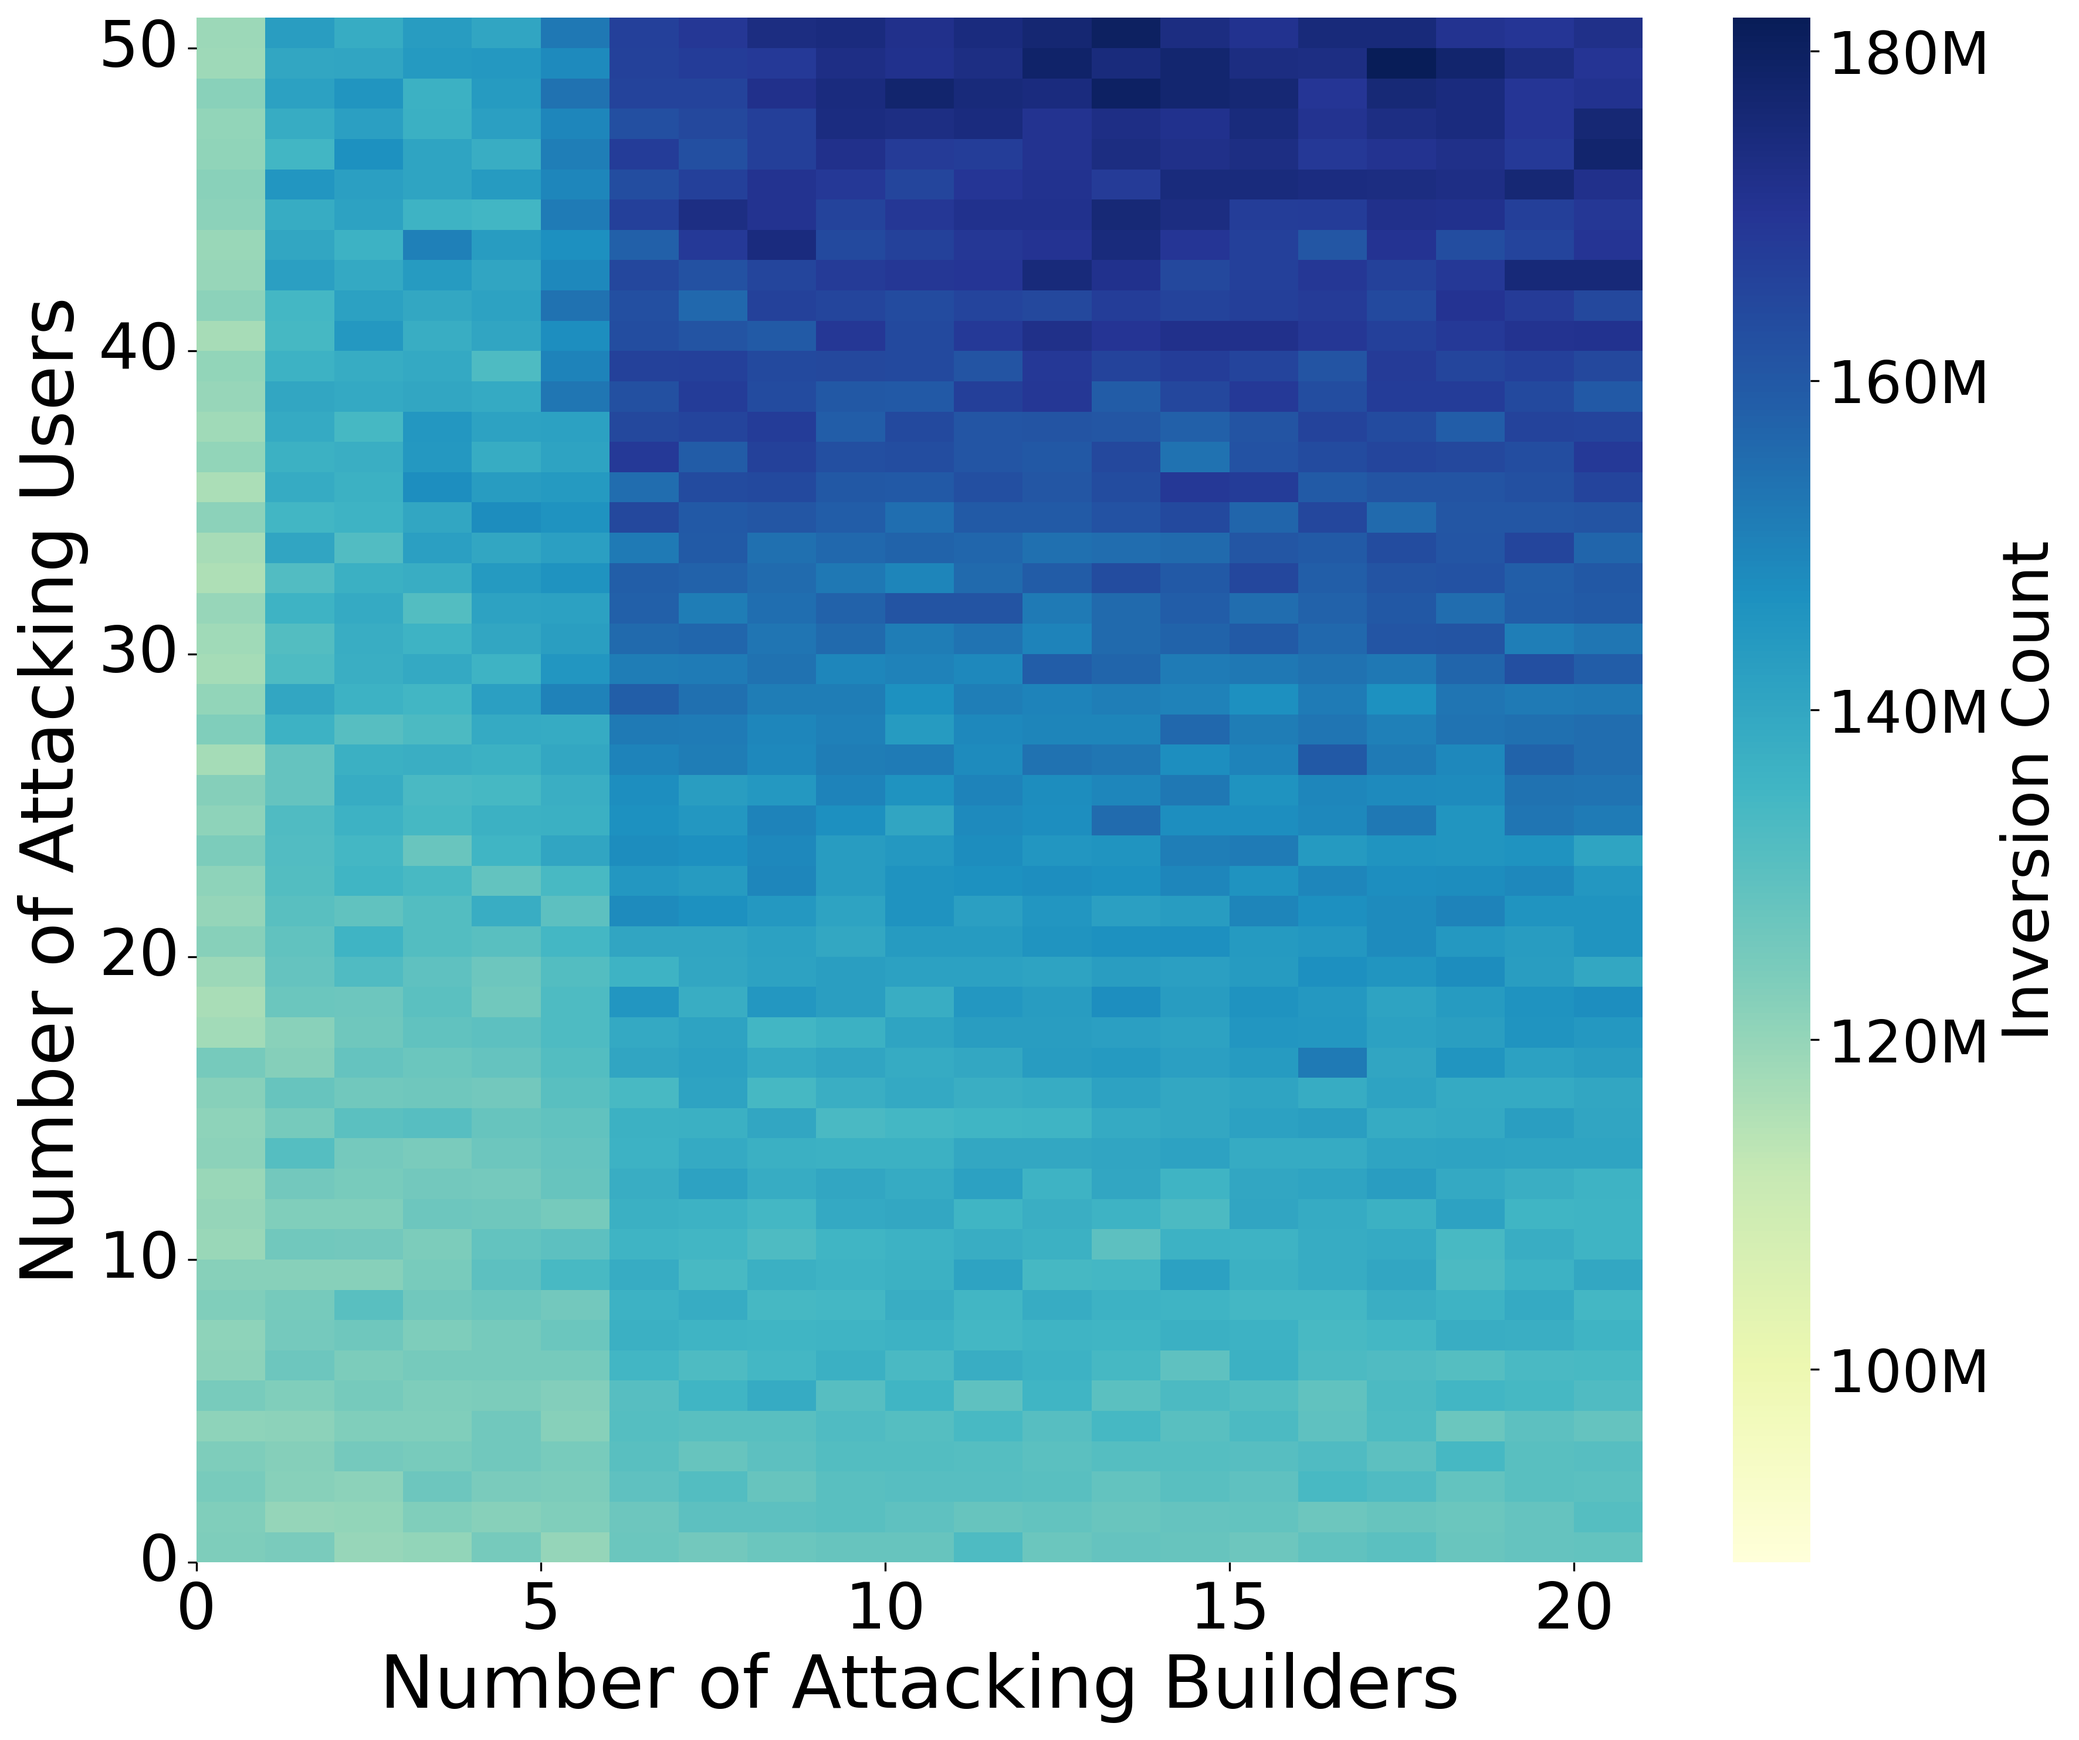
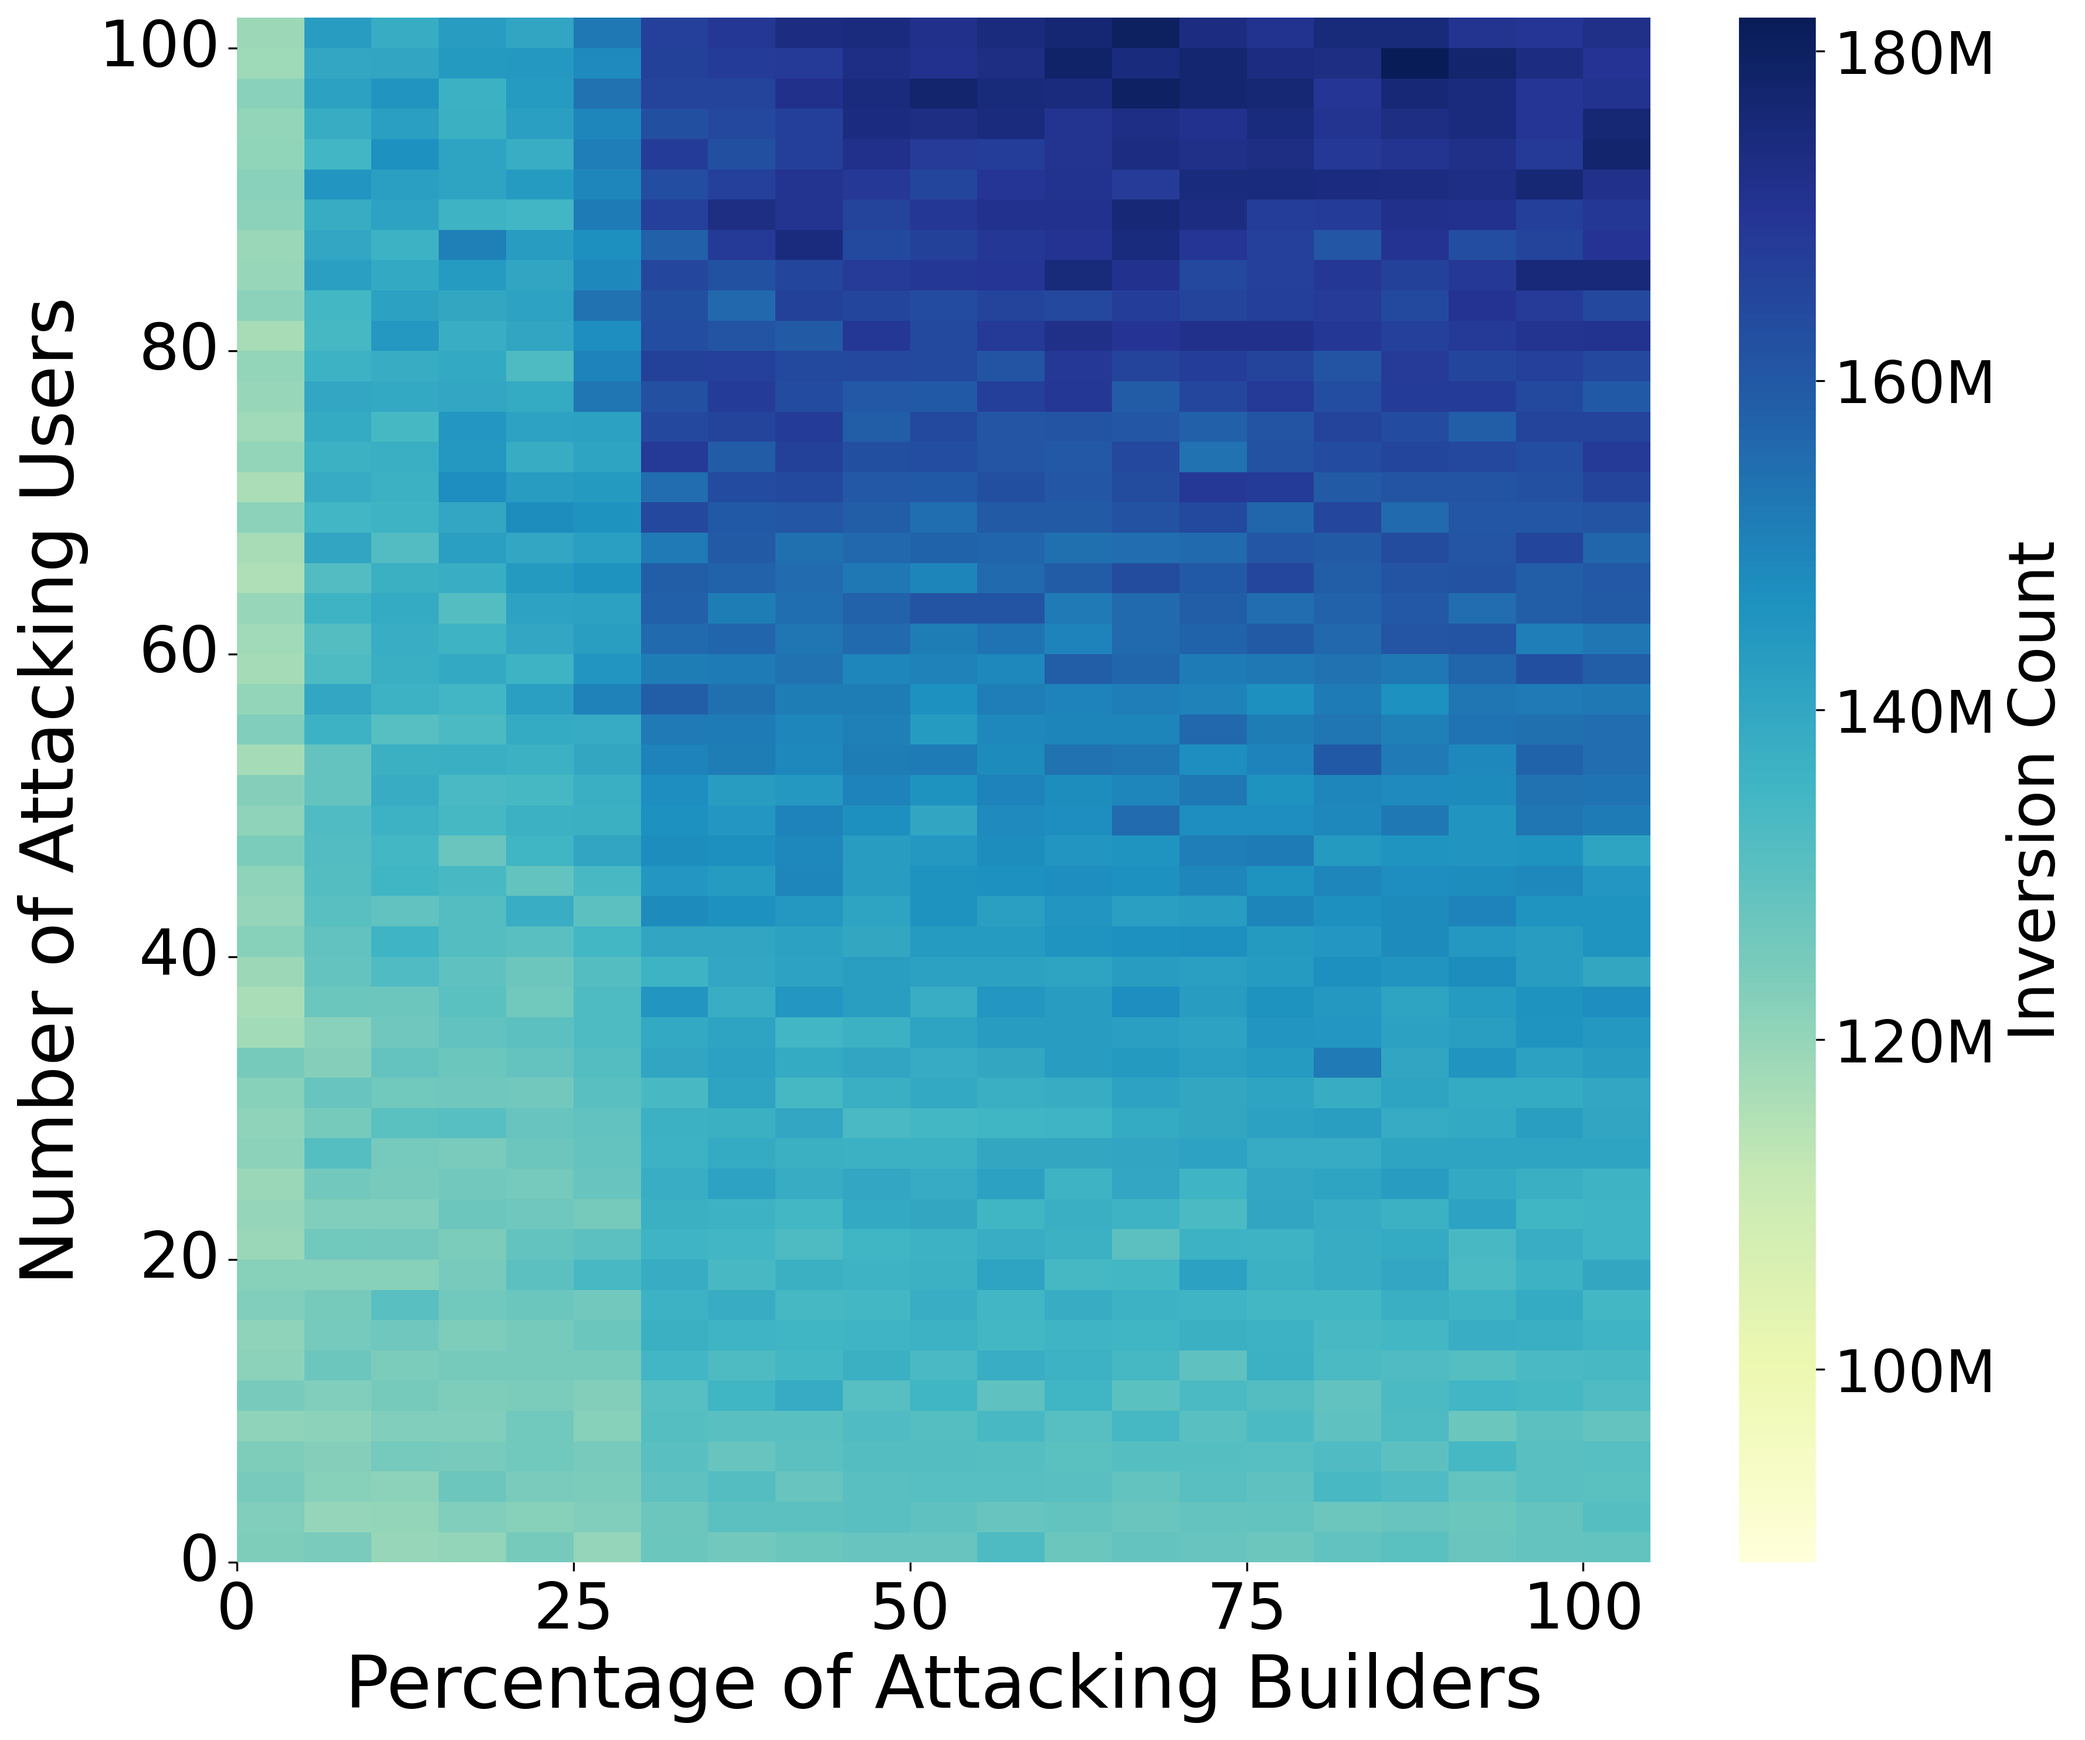
percentage

diff --git a/plots/ss/tx_order.py b/plots/ss/tx_order.py
@@ -125,8 +125,8 @@ def plot_heatmap(results, title, vmin, vmax, output_folder, x_label):
     sns.heatmap(df, annot=False, fmt=".0f", cmap="YlGnBu", cbar_kws={'label': "Inversion Count"}, vmin=vmin, vmax=vmax)
     plt.xlabel(x_label, fontsize=30)
     plt.ylabel("Number of Attacking Users", fontsize=30)
-    plt.xticks(ticks=[0, 5, 10, 15, 20], labels=[0, 5, 10, 15, 20], fontsize=26)
-    plt.yticks(ticks=[0, 10, 20, 30, 40, 50], labels=[0, 10, 20, 30, 40, 50], fontsize=26)
+    plt.xticks(ticks=[0, 5, 10, 15, 20], labels=[0, 25, 50, 75, 100], fontsize=26)
+    plt.yticks(ticks=[0, 10, 20, 30, 40, 50], labels=[0, 20, 40, 60, 80, 100], fontsize=26)
 
     plt.gca().invert_yaxis()
     
@@ -162,7 +162,7 @@ if __name__ == "__main__":
     vmin, vmax = min(all_inversion_counts), max(all_inversion_counts)
 
     # Plot heatmap of results for PoS with "Validators" as x-axis label
-    plot_heatmap(pos_results, "Inversion Counts for PoS", vmin, vmax, output_folder, "Number of Attacking Validators")
+    plot_heatmap(pos_results, "Inversion Counts for PoS", vmin, vmax, output_folder, "Percentage of Attacking Validators")
 
     # Plot heatmap of results for PBS with "Builders" as x-axis label
-    plot_heatmap(pbs_results, "Inversion Counts for PBS", vmin, vmax, output_folder, "Number of Attacking Builders")
+    plot_heatmap(pbs_results, "Inversion Counts for PBS", vmin, vmax, output_folder, "Percentage of Attacking Builders")
